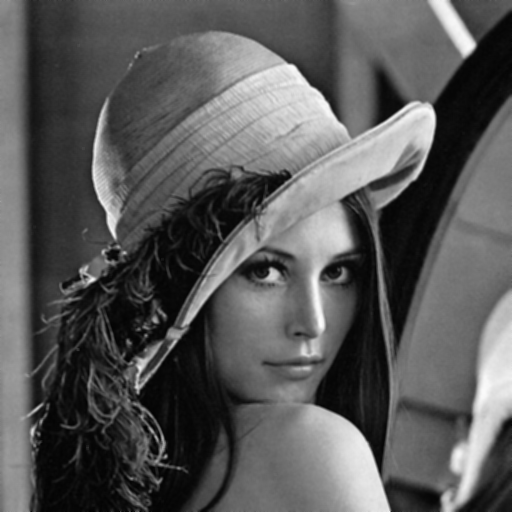
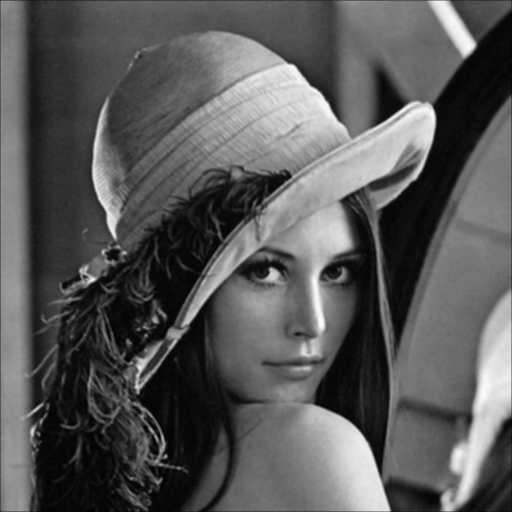
Done

Changed region(s): [[0.0, 0.9688, 0.0312, 1.0], [0.0, 0.0, 0.0312, 0.0312]]

diff --git a/Lab4/Source.cpp b/Lab4/Source.cpp
@@ -4,6 +4,7 @@
 #include <string>
 #include <opencv2/opencv.hpp>
 #include <omp.h>  
+#include <mpi.h>
 
 using namespace std;
 using namespace cv;
@@ -39,7 +40,7 @@ void createImage(int* outputData, int width, int height, const string& outputPat
     imwrite(outputPath, outputImage);  // Write the image to file
 }
 
-// Function to apply a low-pass filter to the image
+
 void applyLowPassFilter(int* input, int* output, int width, int height, int kernelSize) {
     int offset = kernelSize / 2;
     int sumKernel = kernelSize * kernelSize;  // Total number of elements in the kernel
@@ -67,13 +68,56 @@ void applyLowPassFilter(int* input, int* output, int width, int height, int kern
     }
 }
 
-// Parallel version of the low-pass filter function using OpenMP
-void applyLowPassFilterParallel(int* input, int* output, int width, int height, int kernelSize) {
+
+
+
+void applyLowPassFilterParallelOMP(int* input, int* output, int width, int height, int kernelSize) {
     int offset = kernelSize / 2;
     int sumKernel = kernelSize * kernelSize;
+    int sum;
+    // Parallelize the main computation loop
+#pragma omp parallel for collapse(2) shared(input, output, width, height, offset, sumKernel) private(sum) schedule(static)
+    for (int y = offset; y < height - offset; y++) {
+        for (int x = offset; x < width - offset; x++) {
+            sum = 0;
+            for (int ky = -offset; ky <= offset; ky++) {
+                for (int kx = -offset; kx <= offset; kx++) {
+                    int index = (y + ky) * width + (x + kx);
+                    if (index >= 0 && index < width * height) {  // Check bounds
+                        sum += input[index];  // Sum the values within the kernel
+                    }
+                }
+            }
+            output[y * width + x] = sum / sumKernel;  // Compute the average and set it to the output
+        }
+    }
 
-    // Parallel processing of the image pixels
-#pragma omp parallel for collapse(2)
+    // Handle image borders without parallel sections
+    // Top and Bottom borders
+#pragma omp parallel for shared(input, output, width, height) schedule(static)
+    for (int i = 0; i < width; i++) {
+        output[i] = input[i];  // Top border
+        output[(height - 1) * width + i] = input[(height - 1) * width + i];  // Bottom border
+    }
+
+    // Left and Right borders
+#pragma omp parallel for shared(input, output, width, height) schedule(static)
+    for (int i = 0; i < height; i++) {
+        output[i * width] = input[i * width];  // Left border
+        output[i * width + (width - 1)] = input[i * width + (width - 1)];  // Right border
+    }
+}
+
+
+
+void applyLowPassFilterMPI(int* input, int* output, int width, int height, int kernelSize) {
+    int offset = kernelSize / 2;
+    int sumKernel = kernelSize * kernelSize;  // Total number of elements in the kernel
+
+    // We need to consider the ghost rows that might be necessary for the calculation.
+    // Assuming input includes enough rows above and below the actual data (if necessary).
+    // The first and last process might not have previous or next neighbors, handle these cases separately.
+
     for (int y = offset; y < height - offset; y++) {
         for (int x = offset; x < width - offset; x++) {
             int sum = 0;
@@ -86,14 +130,25 @@ void applyLowPassFilterParallel(int* input, int* output, int width, int height, 
         }
     }
 
-    // Handle the image borders in parallel
-#pragma omp parallel for
-    for (int i = 0; i < width; i++) {
-        output[i] = input[i];  // Top border
-        output[(height - 1) * width + i] = input[(height - 1) * width + i];  // Bottom border
+    // Handling the image borders
+    int start_row = offset;  // Start processing from the first full context row
+    int end_row = height - offset;  // End at the last full context row
+
+    // Top border (only if the current chunk includes the top image border)
+    if (start_row == offset) {
+        for (int i = 0; i < width; i++) {
+            output[i] = input[i];  // Replicate the top row
+        }
     }
 
-#pragma omp parallel for
+    // Bottom border (only if the current chunk includes the bottom image border)
+    if (end_row == height - offset) {
+        for (int i = 0; i < width; i++) {
+            output[(height - 1) * width + i] = input[(height - 1) * width + i];  // Replicate the bottom row
+        }
+    }
+
+    // Side borders for all rows handled in the subset
     for (int i = 0; i < height; i++) {
         output[i * width] = input[i * width];  // Left border
         output[i * width + (width - 1)] = input[i * width + (width - 1)];  // Right border
@@ -104,24 +159,99 @@ int main() {
     int ImageWidth = 0, ImageHeight = 0;
 
     string imagePath = "../lena.png";
+    string outputPath = "../filterlena2.png";
     int* imageData = inputImage(&ImageWidth, &ImageHeight, imagePath);
 
     int* outputData = new int[ImageWidth * ImageHeight];
-    int kernelSize = 3;  // Kernel size for the filter
+    int kernelSize = 5;  // Kernel size for the filter
 
-    clock_t start_s = clock();
-    applyLowPassFilterParallel(imageData, outputData, ImageWidth, ImageHeight, kernelSize);
-    clock_t stop_s = clock();
+    clock_t startTime = clock();
 
-    string outputPath = "../filterlena2.png";
+    applyLowPassFilter(imageData, outputData, ImageWidth, ImageHeight, kernelSize);
     createImage(outputData, ImageWidth, ImageHeight, outputPath);
+    double elapsedTime = static_cast<double>(clock() - startTime) / CLOCKS_PER_SEC *1000;
 
-    double TotalTime = (stop_s - start_s) / double(CLOCKS_PER_SEC) * 1000;
-    cout << "Time with OpenMP: " << TotalTime << " ms" << endl;
+    cout << "Total execution time with Seq: " << elapsedTime << " ms" << endl;
+
+
+    clock_t startTime2 = clock();
+    applyLowPassFilterParallelOMP(imageData, outputData, ImageWidth, ImageHeight,kernelSize);
+
+    double elapsedTime2 = static_cast<double>(clock() - startTime) / CLOCKS_PER_SEC *1000;
+    cout << "Total execution time with OMP: " << elapsedTime2 << " ms" << endl;
+
 
     delete[] imageData;
     delete[] outputData;
 
+
+
     return 0;
 }
-// testing git
+
+
+/*
+int main()
+{
+    MPI_Init(NULL, NULL);
+    int rank, size;
+    MPI_Comm_rank(MPI_COMM_WORLD, &rank);
+    MPI_Comm_size(MPI_COMM_WORLD, &size);
+
+    double startTime = MPI_Wtime();
+
+    int ImageWidth = 0, ImageHeight = 0;
+    string imagePath = "lena.png";
+    int* imageData = nullptr;
+    int* localImageData = nullptr;
+    int* outputData = nullptr;
+
+    if (rank == 0) {
+        imageData = inputImage(&ImageWidth, &ImageHeight, imagePath);
+        outputData = new int[ImageWidth * ImageHeight];
+    }
+
+    // Broadcast dimensions to all processes
+    MPI_Bcast(&ImageWidth, 1, MPI_INT, 0, MPI_COMM_WORLD);
+
+    MPI_Bcast(&ImageHeight, 1, MPI_INT, 0, MPI_COMM_WORLD);
+
+    int rows_per_proc = ImageHeight / size;
+    int extra_rows = ImageHeight % size;
+
+    int local_start_row = rank * rows_per_proc + min(rank, extra_rows);
+
+    int local_end_row = local_start_row + rows_per_proc + (rank < extra_rows ? 1 : 0);
+
+    int local_height = local_end_row - local_start_row;
+
+    localImageData = new int[ImageWidth * local_height];
+
+    // Scatter the image data
+    MPI_Scatter(imageData, local_height * ImageWidth, MPI_INT, localImageData, local_height * ImageWidth, MPI_INT, 0, MPI_COMM_WORLD);
+
+    int* localOutputData = new int[ImageWidth * local_height];
+    applyLowPassFilterMPI(localImageData, localOutputData, ImageWidth, local_height, 3);
+
+    MPI_Barrier(MPI_COMM_WORLD); // Synchronize all processes before gathering the results
+
+
+    MPI_Gather(localOutputData, local_height * ImageWidth, MPI_INT, outputData, local_height * ImageWidth, MPI_INT, 0, MPI_COMM_WORLD);
+
+    if (rank == 0) {
+        string outputPath = "filterlena2.png";
+        createImage(outputData, ImageWidth, ImageHeight, outputPath);
+        delete[] imageData;
+        delete[] outputData;
+        cout << "Total execution time with MPI:: " << (MPI_Wtime() - startTime) * 1000 << " ms" << endl;
+    }
+
+    delete[] localImageData;
+    delete[] localOutputData;
+
+    MPI_Finalize();
+
+    return 0;
+
+}
+*/
